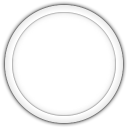
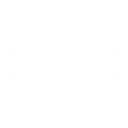
make slider ball brighter (lazer style)

diff --git a/scripts/scenes/playback.js b/scripts/scenes/playback.js
@@ -3,7 +3,7 @@
 *       [0,1) background / storyboard
 *       [2,3) hit score, bottom to top
 *       [4,5) hit objects, top to bottom
-*       [5,6) follow circle, one visible instance at a time (add blend)
+*       [5,6) follow circle & slider ball, one visible instance at a time (add blend)
 *       [6,7) approach circle, bottom to top
 *       assuming number of possible hits doesn't exceed 9998
 */
@@ -402,7 +402,7 @@ function(Osu, Skin, Hash, LinearBezier, CircumscribedCircle, setPlayerActions, S
             ball.anchor.x = ball.anchor.y = 0.5;
             ball.tint = (255<<16)+(255<<8)+255;
             ball.manualAlpha = true;
-            ball.depth = 4.9999-0.0001*hit.hitIndex;
+            ball.depth = 5;
             hit.objects.push(ball);
 
             let endPoint = hit.curve.curve[hit.curve.curve.length-1];
